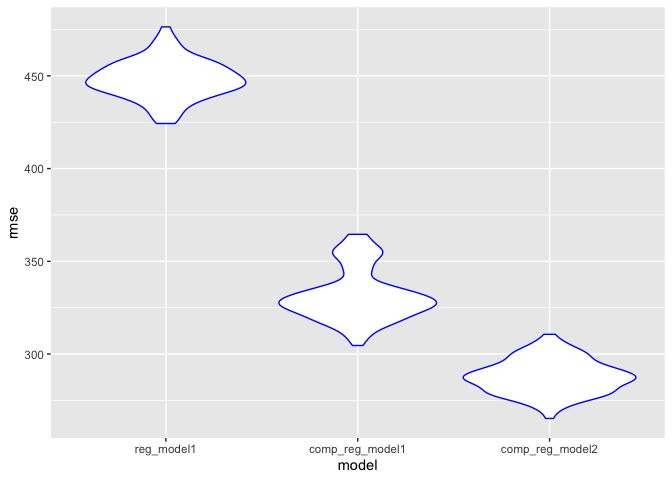
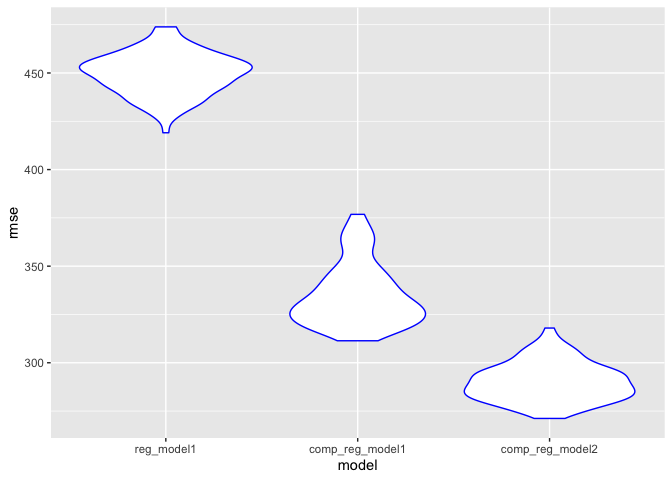
adding both plots and commented on 95% CI

diff --git a/p8105_hw6_blm2156.md b/p8105_hw6_blm2156.md
@@ -219,7 +219,7 @@ weather_df =
 ## Bootstrap
 
 ``` r
-set.seed(1)
+set.seed(3)
 
 fcn_boots = function(df) {
   sample_frac(df, size = 0.5, replace = TRUE)
@@ -231,4 +231,80 @@ boot_straps =
     strap_number = 1:5000,
     strap_sample = rerun(5000, fcn_boots(weather_df))
   )
+
+boot_straps
 ```
+
+    ## # A tibble: 5,000 x 2
+    ##    strap_number strap_sample      
+    ##           <int> <list>            
+    ##  1            1 <tibble [182 × 6]>
+    ##  2            2 <tibble [182 × 6]>
+    ##  3            3 <tibble [182 × 6]>
+    ##  4            4 <tibble [182 × 6]>
+    ##  5            5 <tibble [182 × 6]>
+    ##  6            6 <tibble [182 × 6]>
+    ##  7            7 <tibble [182 × 6]>
+    ##  8            8 <tibble [182 × 6]>
+    ##  9            9 <tibble [182 × 6]>
+    ## 10           10 <tibble [182 × 6]>
+    ## # … with 4,990 more rows
+
+## Analyzing Bootstrap Samples - lnb0\*b1
+
+``` r
+bootstrap_results = 
+  boot_straps %>% 
+  mutate(
+    models = map(strap_sample, ~lm(tmax ~ tmin, data = .x)),
+    results = map(models, broom::tidy)) %>% 
+  unnest(cols = c(results)) %>%
+  select(strap_number, term, estimate) %>% 
+  pivot_wider(names_from = term, values_from = estimate) %>%
+  janitor::clean_names() %>% 
+    rename(b0 = intercept, b1 = tmin) %>%
+     mutate(ln_b0b1 = log(b0*b1)) %>%
+  select(-b0, -b1)
+```
+
+## Analyzing Bootstrap Samples - r^2
+
+``` r
+bootstrap_results2 = 
+  boot_straps %>%
+  mutate(
+    models= map(strap_sample, ~lm(tmax~tmin, data = .x)), 
+    results = map(models, broom::glance)) %>%
+  select(-strap_sample, -models) %>%
+  unnest(cols = c(results)) %>%
+  select(strap_number, r.squared)
+```
+
+## Plot of betas and r^2
+
+``` r
+plot1 = bootstrap_results %>%
+  ggplot(aes(x = ln_b0b1)) +
+  geom_density(color = "purple")
+
+plot1
+```
+
+![](p8105_hw6_blm2156_files/figure-gfm/unnamed-chunk-12-1.png)<!-- -->
+The plot of the log of b0\*b1 against density appears approximately
+normal. Therefore, we can infer that the 95% confidence interval is
+about (1.925, 2.075)
+
+``` r
+plot2 = bootstrap_results2 %>%
+  ggplot(aes(x = r.squared)) +
+  geom_density(color = "purple")
+
+plot2
+```
+
+![](p8105_hw6_blm2156_files/figure-gfm/unnamed-chunk-13-1.png)<!-- -->
+
+The plot of the R2 against the density is approximately normal.
+Therefore, we can infer that the confidence interval is about (0.8875,
+0.9375).
